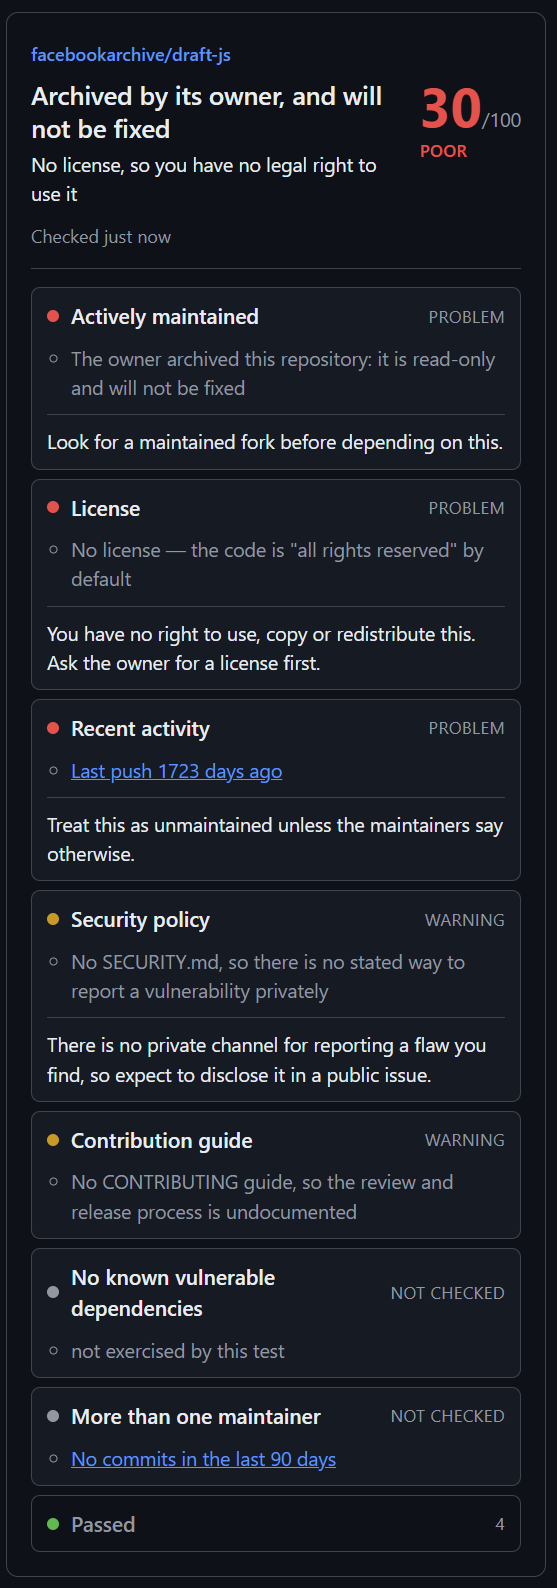
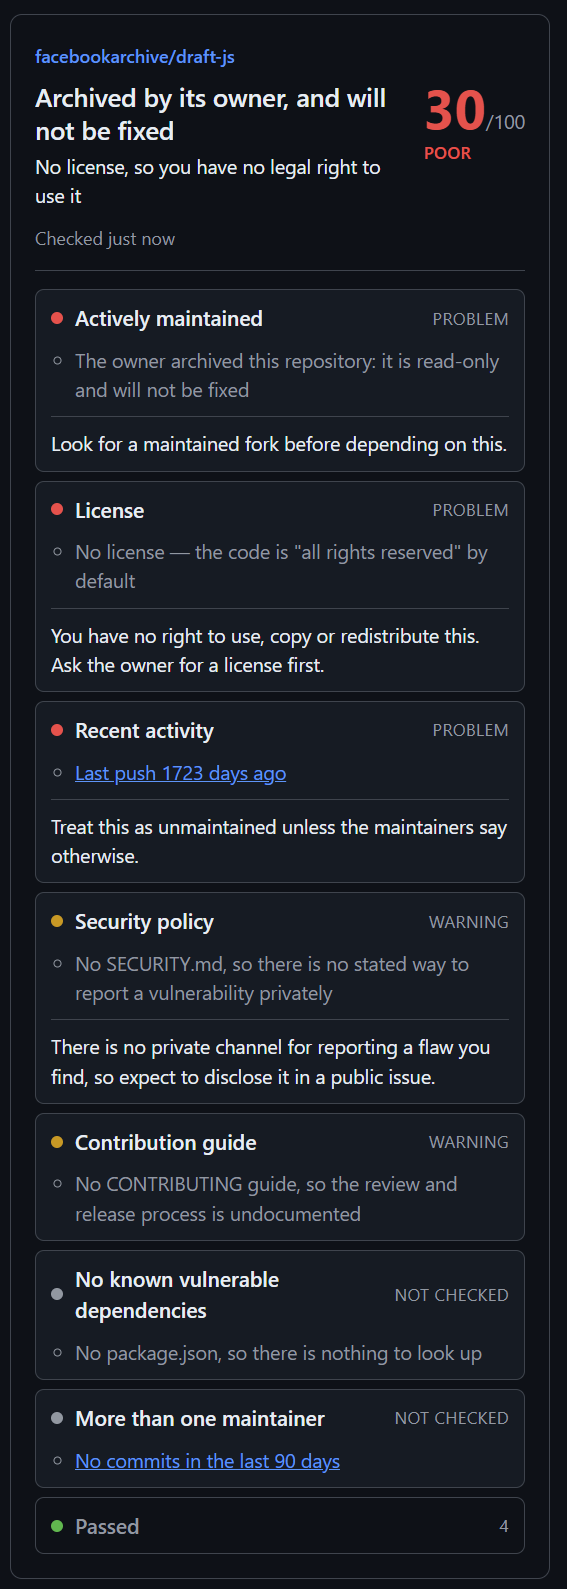
docs: reshoot the archived panel and size the README images
The archived panel carried the test helper's placeholder reason. Images are centred and scaled down, which markdown image syntax cannot express.

diff --git a/README.md b/README.md
@@ -9,7 +9,13 @@
 A Chrome extension (Manifest V3). It opens a side panel beside github.com and
 answers the question stars cannot: **should I depend on this?**
 
-![The Forkwise panel on a repository with a vulnerable dependency](docs/img/fair.png)
+<p align="center">
+  <img
+    src="docs/img/fair.png"
+    alt="The Forkwise panel on a repository with a vulnerable dependency"
+    width="420"
+  />
+</p>
 
 ## What it says
 
@@ -29,9 +35,14 @@ check, worst first, each carrying evidence you can click and verify.
 <details>
 <summary>Two more panels: an archived repository, and a healthy one</summary>
 
-![An archived repository with no license, scoring 30](docs/img/poor.png)
-
-![A healthy repository, scoring 100](docs/img/good.png)
+<p align="center">
+  <img
+    src="docs/img/poor.png"
+    alt="An archived repository with no license, scoring 30"
+    width="360"
+  />
+  <img src="docs/img/good.png" alt="A healthy repository, scoring 100" width="360" />
+</p>
 
 </details>
 
